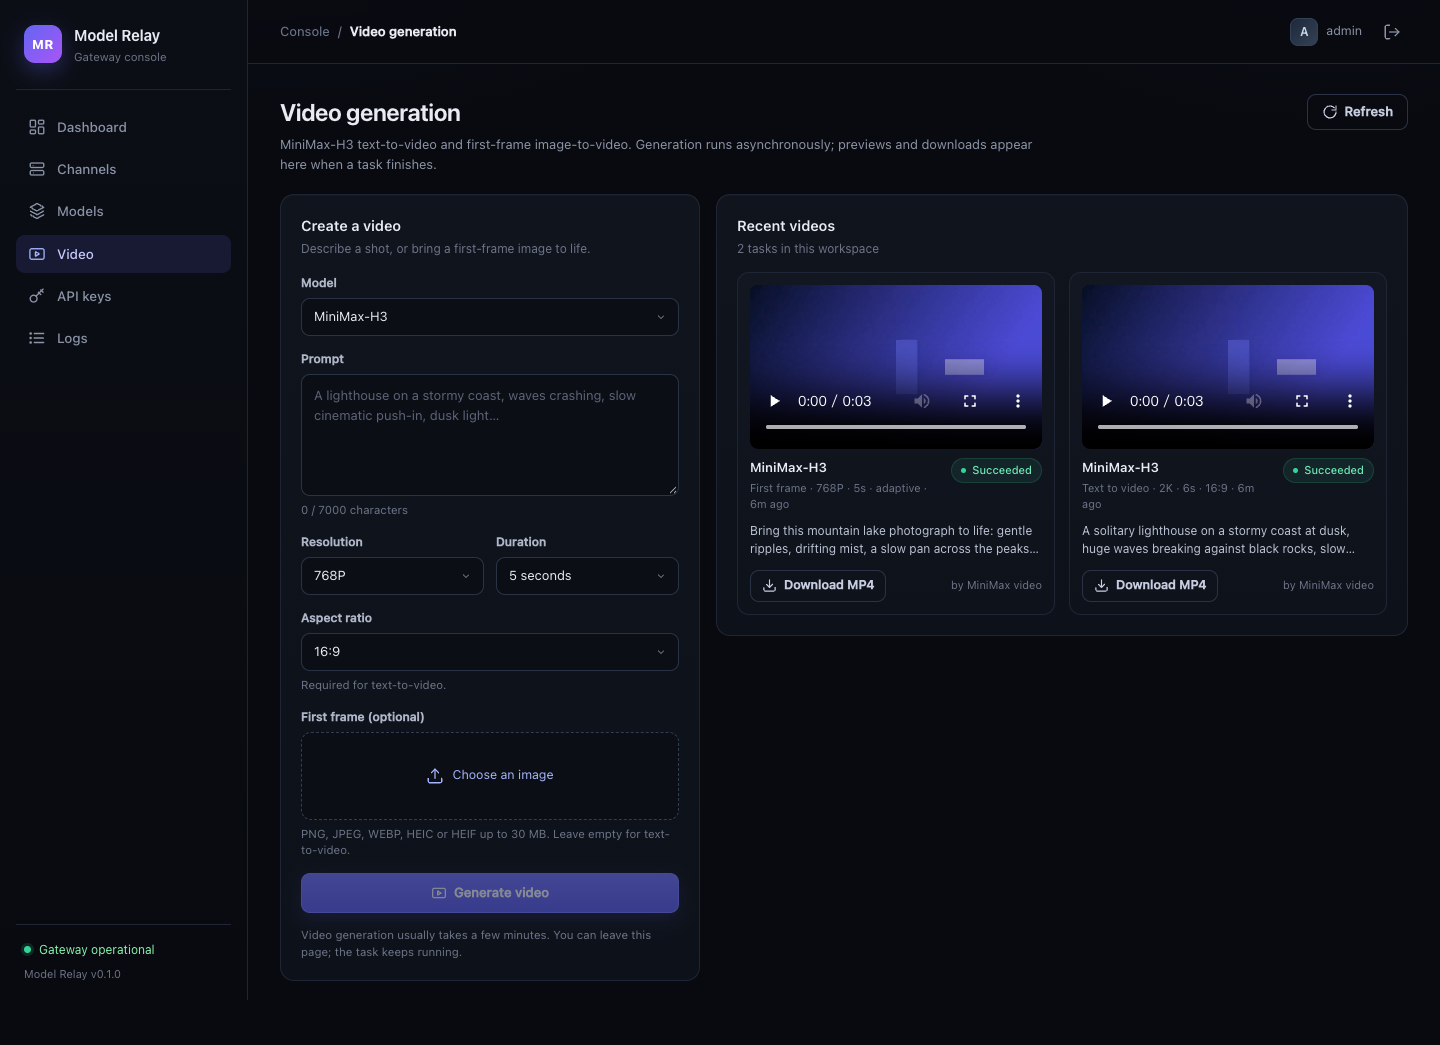
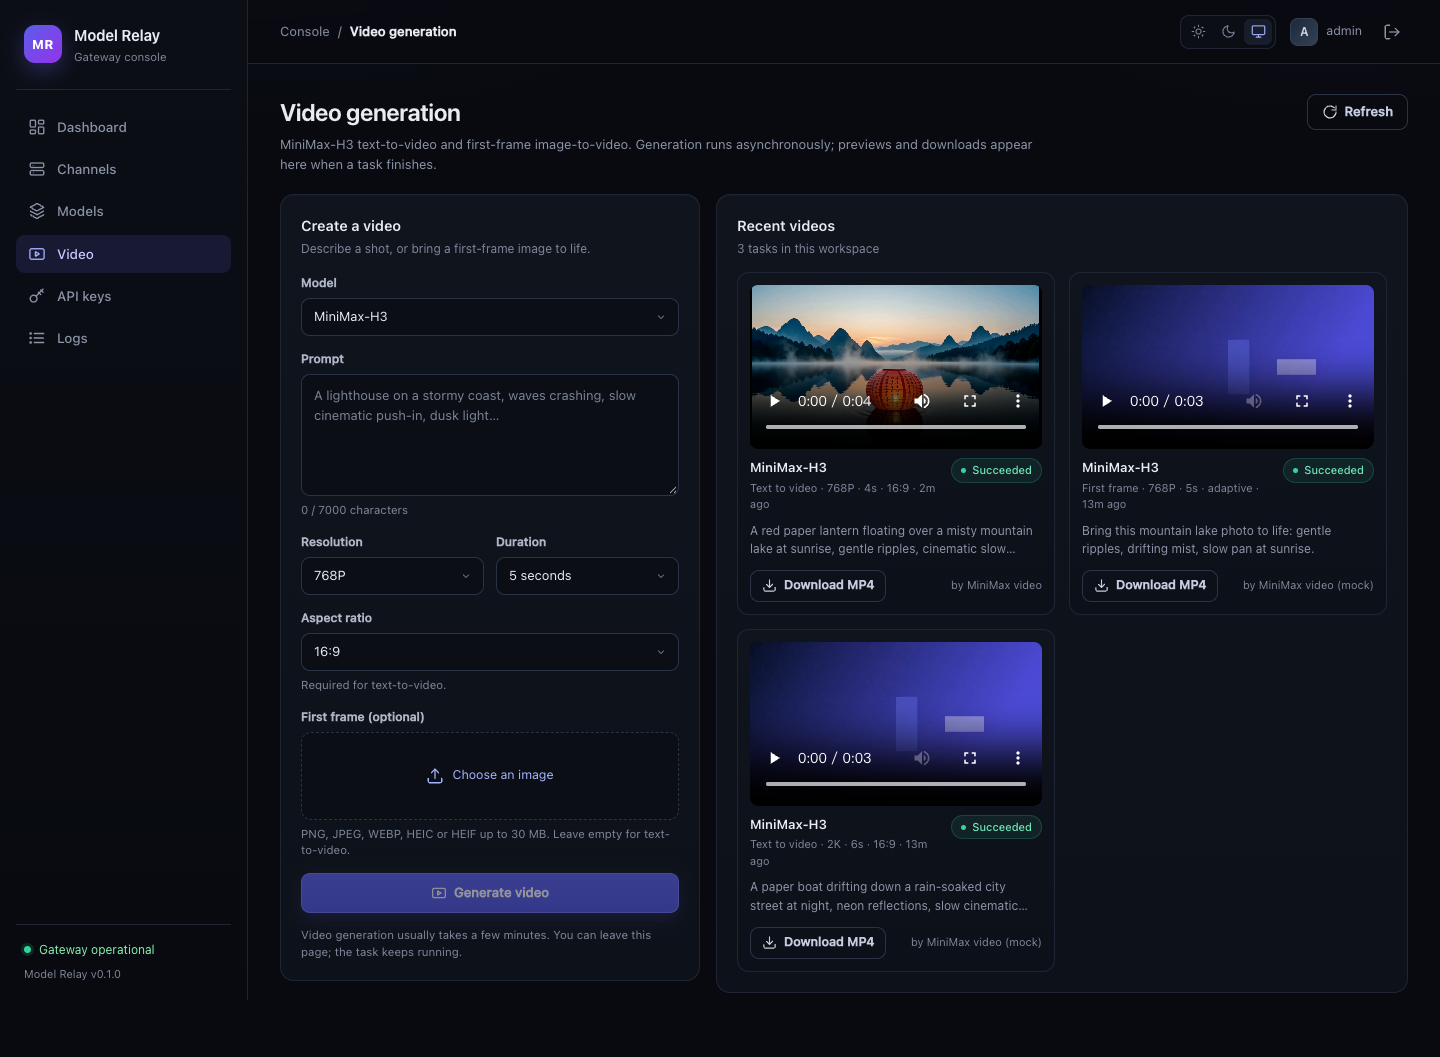
fix: isolate video test downloads and refresh screenshots
Keep the server video test inside its temporary data directory, and recapture the before/after evidence against the rebased main that now includes console themes and upstream model import.

diff --git a/internal/server/server_test.go b/internal/server/server_test.go
@@ -34,9 +34,11 @@ func newTestServer(t *testing.T) (*httptest.Server, *store.Store) {
 		t.Fatalf("seed admin: %v", err)
 	}
 	cfg := &config.Config{
-		SecretKey:  "test-secret",
-		SessionTTL: time.Hour,
-		Version:    "test",
+		SecretKey:         "test-secret",
+		SessionTTL:        time.Hour,
+		Version:           "test",
+		DataDir:           t.TempDir(),
+		VideoPollInterval: 10 * time.Millisecond,
 	}
 	cipher, err := secretbox.New(cfg.SecretKey)
 	if err != nil {

diff --git a/README.md b/README.md
@@ -112,7 +112,7 @@ Changing `SECRET_KEY` invalidates admin sessions and makes existing channel keys
 | --- | --- |
 | ![Video generation](docs/screenshots/video-generation.png) | ![MiniMax H3 channel](docs/screenshots/video-channel.png) |
 
-The **Models** page shows the public catalog, serving channels and the lowest configured price per model. The screenshots above use the local mock upstream in `scripts/mock-upstream.py` (`python3 scripts/mock-upstream.py 19090`), so `127.0.0.1` URLs are demo data rather than real providers. The mock also answers MiniMax video create/query calls and serves `scripts/media/demo.mp4` for local previews.
+The **Models** page shows the public catalog, serving channels and the lowest configured price per model. The screenshots above use the local mock upstream in `scripts/mock-upstream.py` (`python3 scripts/mock-upstream.py 19090`), so `127.0.0.1` URLs are demo data rather than real providers. The mock also answers MiniMax video create/query calls and serves `scripts/media/demo.mp4` for local previews; the video screenshot additionally includes one real MiniMax-H3 generation.
 
 Use the theme control in the top bar, or on the sign-in screen, to switch between light, dark and follow-system themes. The console remembers the selection in the browser.
 
